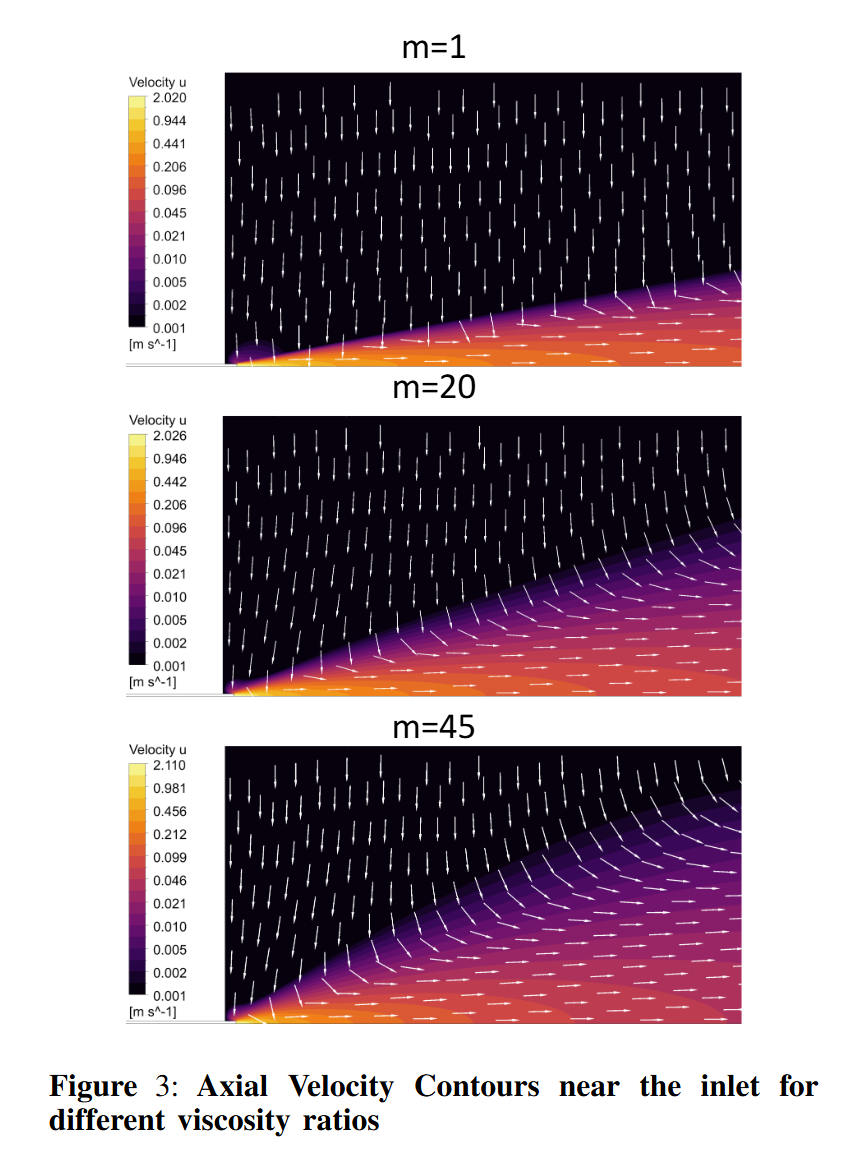
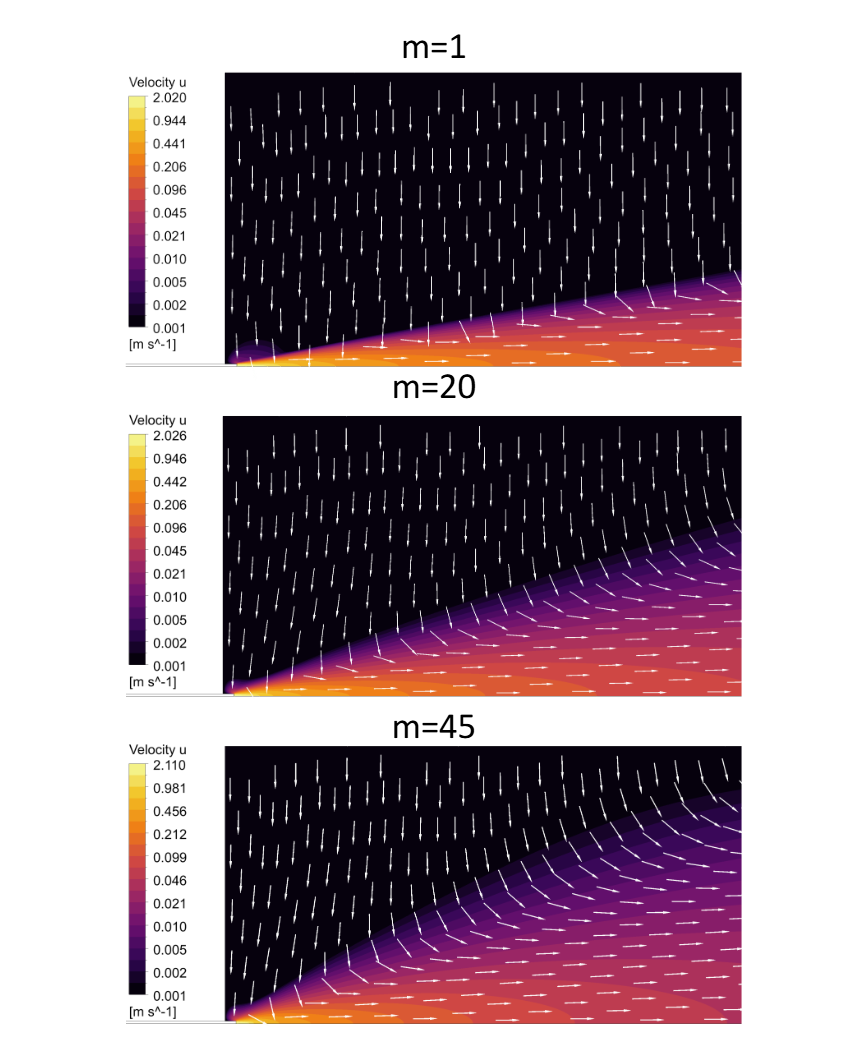
Update the internship post and strip the burned-in caption
Tanmay's revised text. The post no longer promises a link to the FMFP
proceedings "once they are available online", a promise that had been
outstanding for eleven months; it now simply records that Animesh
presented the work in December 2025.

contours.png carried its own caption, "Figure 3: Axial Velocity
Contours near the inlet for different viscosity ratios", baked into the
image. That duplicated the caption underneath it and was numbered for
the document it came from rather than this page. The image is cropped
at row 1040, above the caption and below the last panel, so all three
contour plots are intact.

Math is now marked up with single-dollar delimiters, matching the
convention on the research page. Double dollars would have been treated
as display math by MathJax and broken each expression onto its own
centred line mid-sentence. Checked in a browser: nine expressions, all
typeset inline, none as display.

Claude-Session: https://claude.ai/code/session_01YE2srki6ENJfsmAzfhvgx4

diff --git a/_news/animesh_internship.md b/_news/animesh_internship.md
@@ -6,16 +6,14 @@ inline: false
 related_posts: false
 ---
 
-During the summer of 2025, we had the pleasure of hosting Animesh Yadav (B. Tech. student at Thapar University, Patiala) for two months in the Fluid Mechanics laboratory at IIT Delhi.
+During the summer of 2025, we had the pleasure of hosting Mr. Animesh Yadav, an undergraduate at Thapar University, India, for two months in the Fluid Mechanics laboratory at IIT Delhi. In this timeframe, he conducted numerical simulations of viscosity-stratified jets using RANS closure models in ANSYS Fluent. Our primary interest was to understand how the injection of a low-viscosity fluid into a high-viscosity ambient, without any density anomaly, affects the flow development and the resulting statistics.
 
-In this timeframe, he conducted simulations of viscosity-stratified jets using RANS closure models in ANSYS Fluent. Our primary interest was to understand how the injection of a low-viscosity fluid into a high-viscosity ambient, without any density anomaly, affects the flow behavior and statistics.
+Towards this, Animesh employed a viscosity ratio $m = \frac{\nu_{\text{host}}}{\nu_{\text{jet}}}$ to quantify their dynamics, and conducted simulations for $m$ ranging between 1 to 45. Figure 1 shows the qualitative distribution of axial velocity which clearly demonstrates how a more viscous ambient results in a larger radial spread of the jet. For all these cases, the Reynolds number was set at 2000. The case with $m = 1$ corresponds to a canonical jet.
 
-Towards this, Animesh used a viscosity ratio $\left(m = \frac{\nu_{host}}{\nu_{jet}}\right)$ to quantify their dynamics, and conducted simulations for $m$ ranging between 1 to 45. Figure 1 shows the qualitative distribution of axial velocity which clearly demonstrates how a more viscous ambient results in a larger radial spread of the jet. For all these cases, the Reynolds number was set to be 2000. The case with $m = $ 1 corresponds to a canonical jet.
+{% include figure.liquid path="assets/img/animesh_internship/contours.png" caption="Figure 1: Axial velocity contours near the inlet at viscosity ratios $m = 1$, 20 and 45. A more viscous ambient produces a larger radial spread of the jet." width="60%" class="mx-auto d-block" %}
 
-{% include figure.liquid path="assets/img/animesh_internship/contours.png" caption="Figure 1: Axial velocity distribution at viscosity ratios between 1 and 45. A more viscous ambient produces a larger radial spread of the jet." width="60%" class="mx-auto d-block" %}
+He validated these simulations against an [experimental work](https://link.springer.com/article/10.1007/s00348-004-0888-x) with similar geometrical setup and parameter space. This validation is shown in figure 2 where he favorably compares the decay rate of centerline velocity $\left(1/B_u\right)$, and the spread rate of the jet $\left(c\right)$ at different viscosity ratio.
 
-He validated these numerical results against an [experimental work](https://link.springer.com/article/10.1007/s00348-004-0888-x) with similar geometrical setup and parameter space. This validation is shown in figure 2 where he favorably compares the decay rate of centerline velocity ($1/B_u$), and the spread rate of the jet ($c$) at different viscosity ratio.
+{% include figure.liquid path="assets/img/animesh_internship/validation.png" caption="Figure 2: Validation of flow statistics against experiment. Decay rate of the centreline velocity $1/B_u$ (black, left axis) and jet spread rate $c$ (red, right axis) against viscosity ratio $m$." width="75%" class="mx-auto d-block" %}
 
-{% include figure.liquid path="assets/img/animesh_internship/validation.png" caption="Figure 2: Validation of flow statistics." width="75%" class="mx-auto d-block" %}
-
-Animesh will be presenting this work during the [Fluid Mechanics and Fluid Power (FMFP) Conference](https://www.fmfp2025.com/) in December 2025. I'll provide a link to the conference proceedings once they are available online.
+Animesh presented this work during the [Fluid Mechanics and Fluid Power (FMFP) Conference](https://www.fmfp2025.com/) in December 2025. I wish him the best for his future endeavors!
